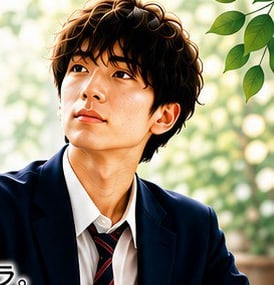
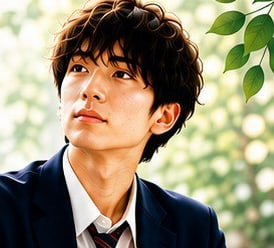
わんもあの写真から、チラシの文字の切れ端を外す
onemore-student.jpg の切り出しを 274x285 → 274x248 に詰めました。
下端に「チカラ。」の一部が写り込んでいました。

diff --git a/src/data/photos.ts b/src/data/photos.ts
@@ -118,7 +118,7 @@ export const photos = {
   onemoreStudent: p(
     'onemore-student.jpg',
     274,
-    285,
+    248,
     '机に向かってペンを持ち、英語の長文に取り組む高校生（英語多読塾わんもあのイメージ）',
   ),
   onemoreClassJhs: p(
